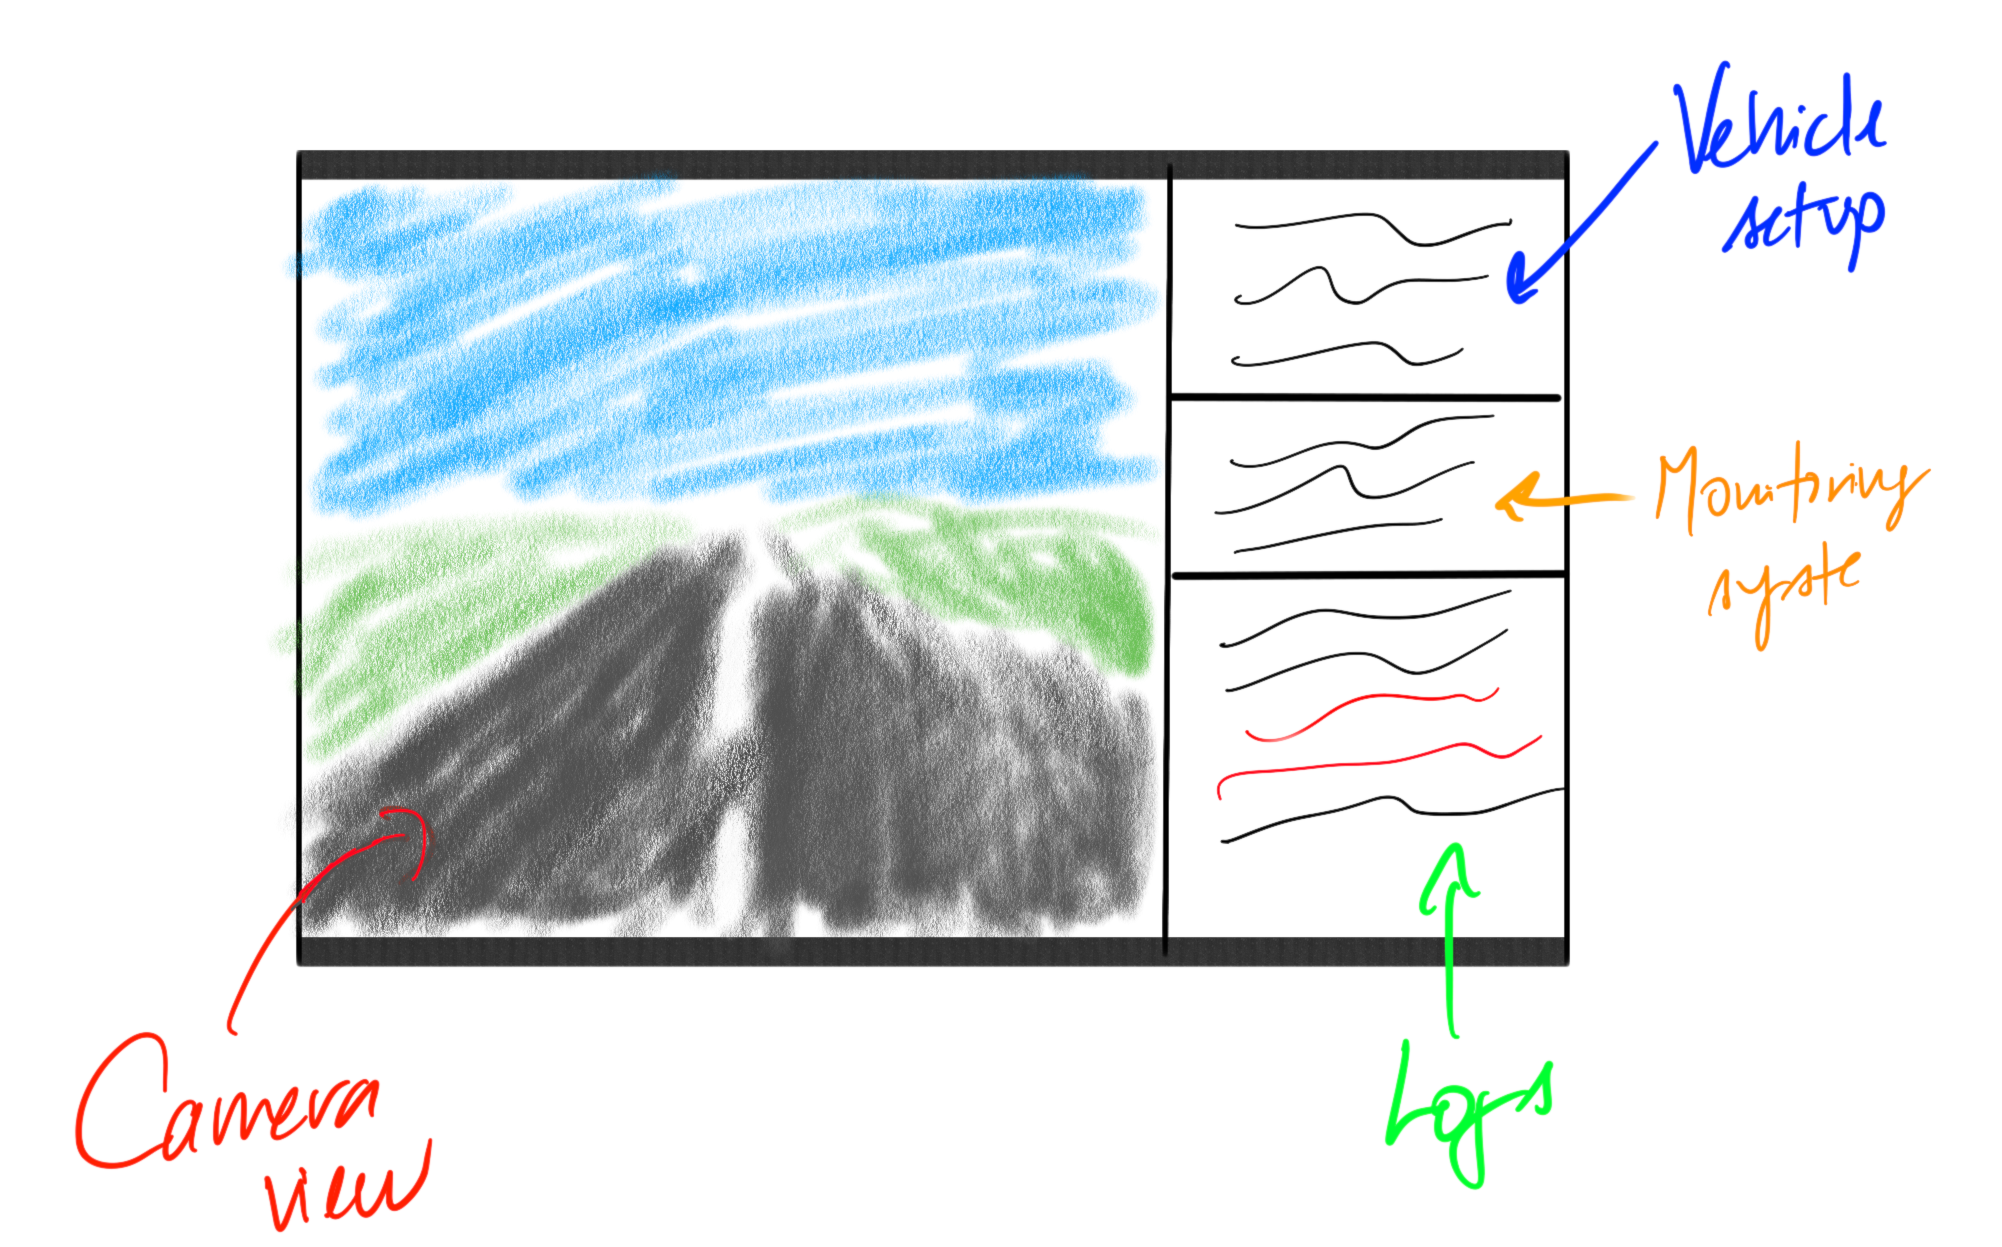
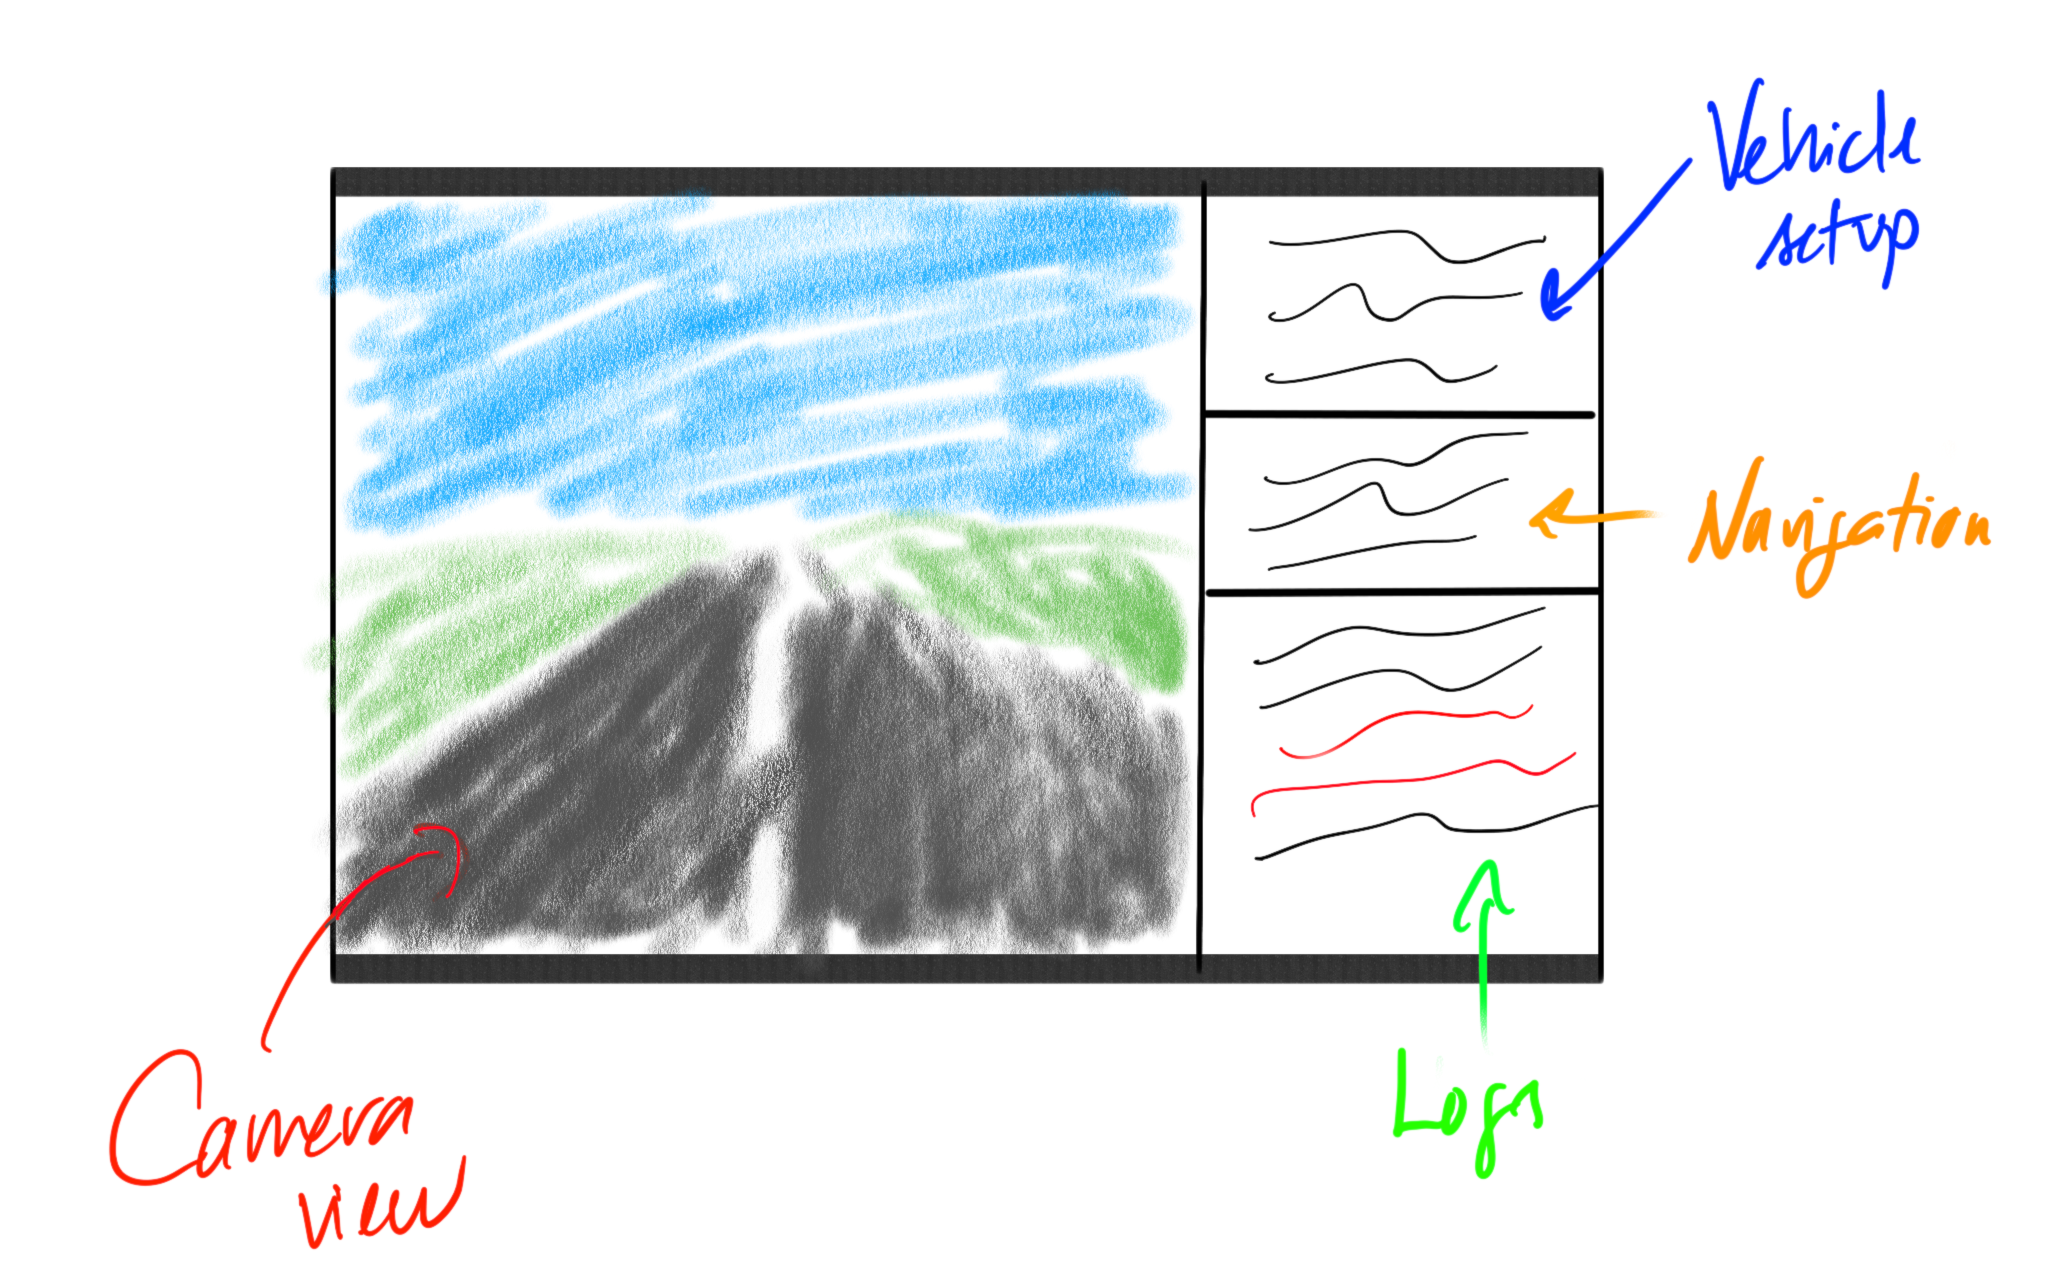
07062025 release

Changed region(s): [[0.1239, 0.0609, 0.991, 0.9447], [0.031, 0.7923, 0.2478, 1.0], [0.6813, 0.3962, 0.7123, 0.4266]]

diff --git a/docs/Initialization/setup_api.md b/docs/Initialization/setup_api.md
@@ -1,0 +1,198 @@
+# To initialize a vehicle
+
+## Response status
+
+| Status | Description |
+|--------|------------------|
+| 200 | Successful |
+| 400 | Bad request |
+| 409 | Conflict |
+
+## To prepare the vehicle
+
+1. Power on the vehicle and your computer.
+
+2. Make sure that the vehicle and your computer are connected to the same network.
+
+3. Do a check of all critical systems:
+
+    ```bash title="Request"
+    curl -X GET "http://api.muber.fleet:1234/v2/vehicles/veh_123/full-safety-check" \
+         -H "Authorization: Bearer YOUR_API_KEY" \
+         -H "Accept: application/json"
+    ```
+
+    ```json title="Response (status 200)"
+    {
+      "status": "success",
+      "vehicle_id": "veh_123",
+      "all_systems_go": true,
+      "systems": {
+        "brakes": {
+          "status": "ok",
+          "pressure_psi": 1200,
+          "pad_wear": "15%"
+        },
+        "cameras_sensors": {
+          "status": "ok",
+          "faulty_sensors": [],
+          "camera_obstructions": 0
+        }
+      },
+      "timestamp": "2025-06-10T14:30:00Z"
+    }
+    ```
+
+    ```json title="Response (status 400)"
+    {
+      "status": "error",
+      "code": "INVALID_REQUEST",
+      "message": "Missing required parameters"
+    }
+    ```
+
+    !!! warning
+        Do not register the vehicle if one of the systems is not working properly.
+
+## To assign a **Fleet ID** to a vehicle
+
+1. Do a check to see if the vehicle is already registered.
+
+    ```bash title="Request"
+    curl -X GET "http://api.muber.fleet:1234/v2/monitor" \
+         -H "Authorization: Bearer YOUR_API_KEY"
+    ```
+
+    ```json title="Response (status 200)"
+    {
+      "status": "success",
+      "data": [
+        {
+          "vehicle_id": "veh_001",
+          "status": "active",
+          "location": {"lat": 34.0522, "lng": -118.2437},
+          "last_updated": "2025-06-07T12:30:00Z"
+        }
+      ]
+    }
+    ```
+
+    ```json title="Response (status 400)"
+    {
+    "status": "error",
+    "code": "MISSING_IDENTIFIERS",
+    "message": "At least one identifier (vin, mac_address) must be provided"
+    }
+    ```
+
+2. If the vehicle is not registered, send the request that follows to register it.
+
+    ``` bash title="Request"
+    curl -X POST "http://api.muber.fleet:1234/v2/vehicles" \
+         -H "Authorization: Bearer YOUR_API_KEY" \
+         -H "Content-Type: application/json" \
+         -d '{
+            "vehicle_id": "veh_002",
+            "model": "Ford Transit",
+            "year": 2024,
+            "initial_status": "inactive"
+            }'
+    ```
+
+    ```json title="Request (status 200)"
+    {
+      "status": "success",
+      "vehicle_id": "veh_002",
+      "message": "Vehicle registered successfully."
+    }
+    ```
+
+4. Make sure that over-the-air software updates are encrypted and authenticated.
+
+## To select the operating mode
+
+Only available when you use the [GUI](../Initialization/setup.md).
+
+## To calibrate the vehicle according to terrain type
+
+1. Make sure that the vehicle is powered and stopped.
+
+    ```bash title="Request"
+    curl -X GET "http://api.muber.fleet:1234/v2/vehicles/veh_123/safety-check" \
+         -H "Authorization: Bearer YOUR_API_KEY" \
+         -H "Accept: application/json"
+    ```
+    
+    ```json title="Response (status 200)"
+    {
+      "status": "success",
+      "vehicle_id": "veh_123",
+      "is_safe": true,
+      "details": {
+        "speed_kmh": 0,
+        "ignition_status": "off",
+        "gear_position": "park",
+        "last_updated": "2025-06-10T14:30:00Z"
+      }
+    }
+    ```
+
+    ```json title="Response (status 409)"
+    {
+      "status": "error",
+      "vehicle_id": "veh_123",
+      "is_safe": false,
+      "errors": [
+        {
+          "code": "VEHICLE_MOVING",
+          "message": "Vehicle speed is 12 km/h (must be 0)."
+        },
+        {
+          "code": "IGNITION_ON",
+          "message": "Ignition is still active."
+        }
+      ]
+    }
+    ```
+
+2. Select the terrain configuration.
+
+    ```bash title="Request"
+    curl -X POST "http://api.muber.fleet:1234/v2/vehicles/veh_123/terrain" \
+          -H "Authorization: Bearer YOUR_API_KEY" \
+          -H "Content-Type: application/json" \
+          -d '{"terrain_type": "off_road"}'
+    ```
+
+    ```json title="Response (status 200)"
+    {
+    "status": "success",
+    "vehicle_id": "veh_123",
+    "new_terrain": "off_road",
+    "system_adjustments": {
+      "suspension": "high_clearance",
+      "traction_control": "aggressive",
+      "camera_processing": "obstacle_priority"
+    },
+    "confirmation_required": false
+    }
+    ```
+
+    ```json title="Response (status 400)"
+    {
+      "status": "error",
+      "error_code": "INVALID_TERRAIN",
+      "valid_options": ["urban", "suburban", "off_road"],
+      "received": "desert" 
+    }
+    ```
+
+    !!! note
+        The vehicle can take up to 15 seconds to complete the calibration.
+
+    !!! note
+
+        For example, an SUV configured for **off-road** might have higher suspension and
+        different route optimization.
+
+3. Calibrate the vehicle sensors. See the [maintenance](../Maintenance/tips.md) section. 

diff --git a/docs/Initialization/setup.md b/docs/Initialization/setup.md
@@ -1,5 +1,7 @@
 # To initialize a vehicle
 
+![setupimage](../images/setup.png)
+
 ## To prepare the vehicle
 1. Power on the vehicle and your computer.
 2. Make sure that the vehicle and your computer are connected to the same network.
@@ -8,21 +10,19 @@
         When the vehicle is successfully connected, the dropdown will turn green.
         For vehicle-to-software connection issues, see the network diagnosis section in [maintenance](../Maintenance/tips.md). 
 
-3. Do a check of all critical systems:
+3. Press the **Check vehicle** button to do a check of all critical systems:
 
-| System | Test description |
-|--------|------------------|
-| Brakes | Make sure that vehicle can stop in a safe manner |
-| Cameras and sensors | Make sure that all sensors are funcional. Calibrate them if necessary. |
-| Seatbelts and airbags | Make sure that all safety equipment is functional |
-| Child safety locks | Make sure that the child safety locks are functional |
-| Emergency communication | Make sure that the vehicle notificates the system if emergency mode is activated |
-| Software updates | Make sure that software updates are encrypted and validated. |
+    | System | Test description |
+    |--------|------------------|
+    | Brakes | Make sure that vehicle can stop in a safe manner |
+    | Cameras and sensors | Make sure that all sensors are funcional. Calibrate them if necessary. |
+    | Seatbelts and airbags | Make sure that all safety equipment is functional |
+    | Child safety locks | Make sure that the child safety locks are functional |
+    | Emergency communication | Make sure that the vehicle notificates the system if emergency mode is activated |
+    | Software updates | Make sure that software updates are encrypted and validated. |
 
-!!! warning
-    Vehicle movement can be restricted if one of the above systems is not working as intended.
-
-![setupimage](../images/setup.png)
+    !!! warning
+        Vehicle movement can be restricted if one of the above systems is not working as intended.
 
 ## To assign a **Fleet ID** to a vehicle
 

diff --git a/docs/Initialization/nav.md b/docs/Initialization/nav.md
@@ -17,7 +17,7 @@ The energy tab shows the values that follows:
 The navigation tab shows the values that follows:
 
 - `Status`: **idle**, **charging**, or ***en route***
-- `Action`: last action registered by the vehicle.
+- `Action`: last action registered by the vehicle
 - `Position`: coordinates of the vehicle position
 - `Destination`: coordinates of the vehicle destination
 - `Current speed`: vehicle speed

diff --git a/docs/Initialization/logs.md b/docs/Initialization/logs.md
@@ -2,7 +2,7 @@
 
 ![logsimage](../images/logs.png)
 
-The **Logs** tab registers the vehicle actions (if the vehicle is automatic mode), or the operator actions (if the vehicle is in manual mode).
+The Logs tab registers the vehicle actions (if the vehicle is automatic mode), or the operator actions (if the vehicle is in manual mode).
 
 The fields that this tab shows are as follows:
 
